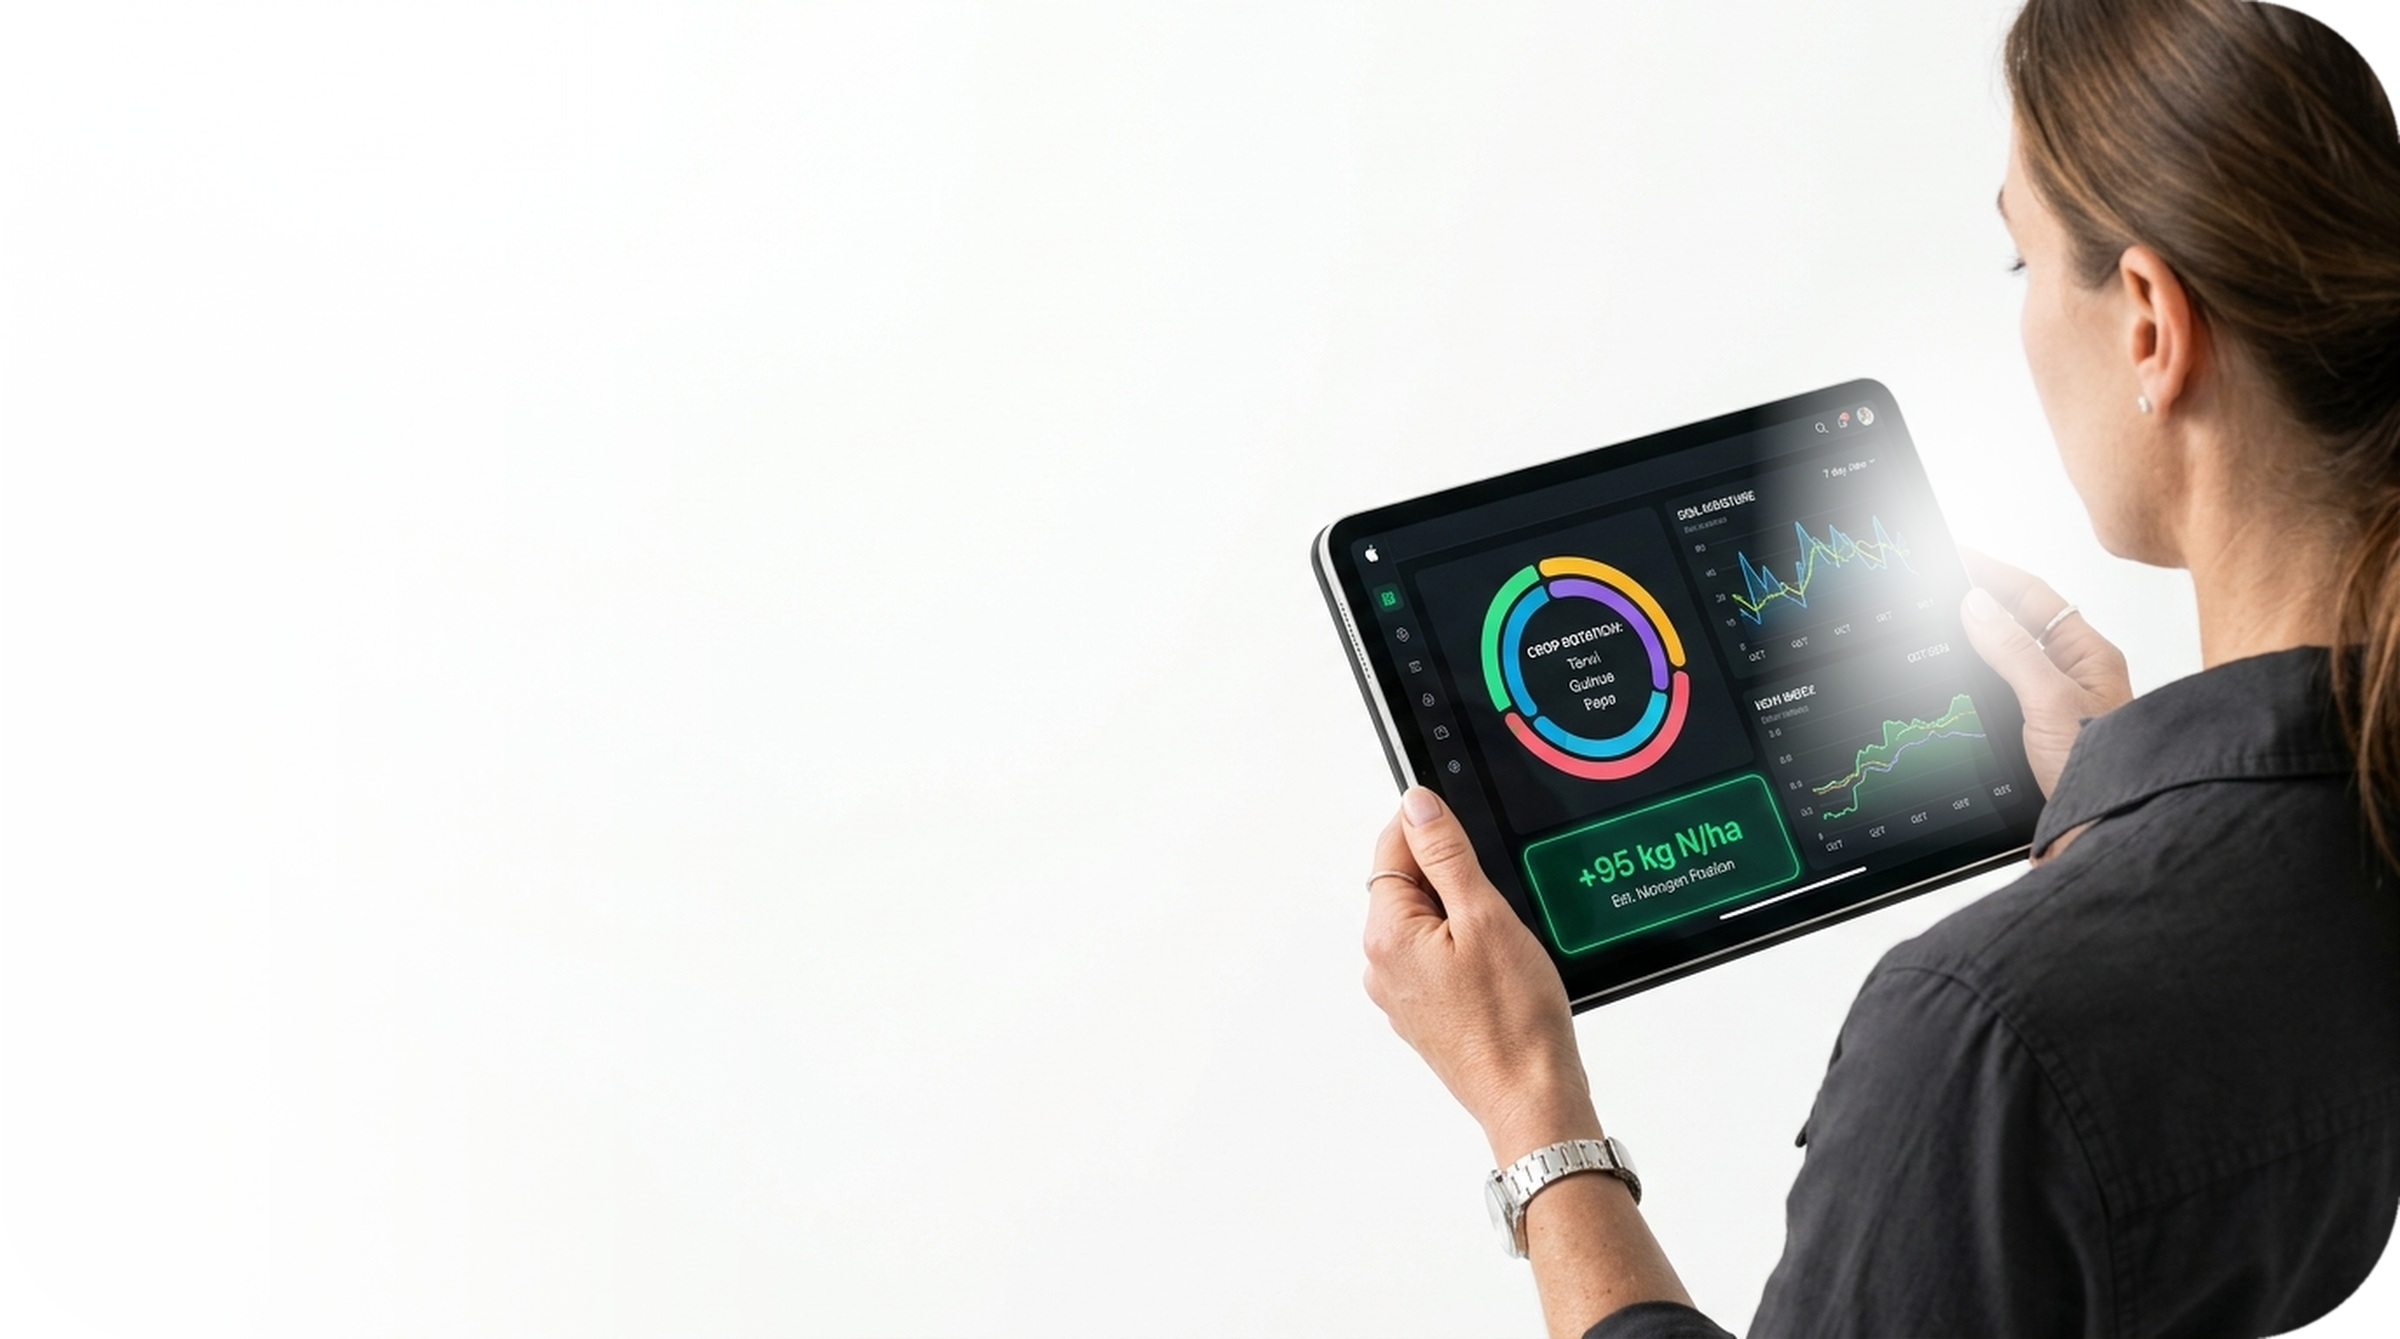
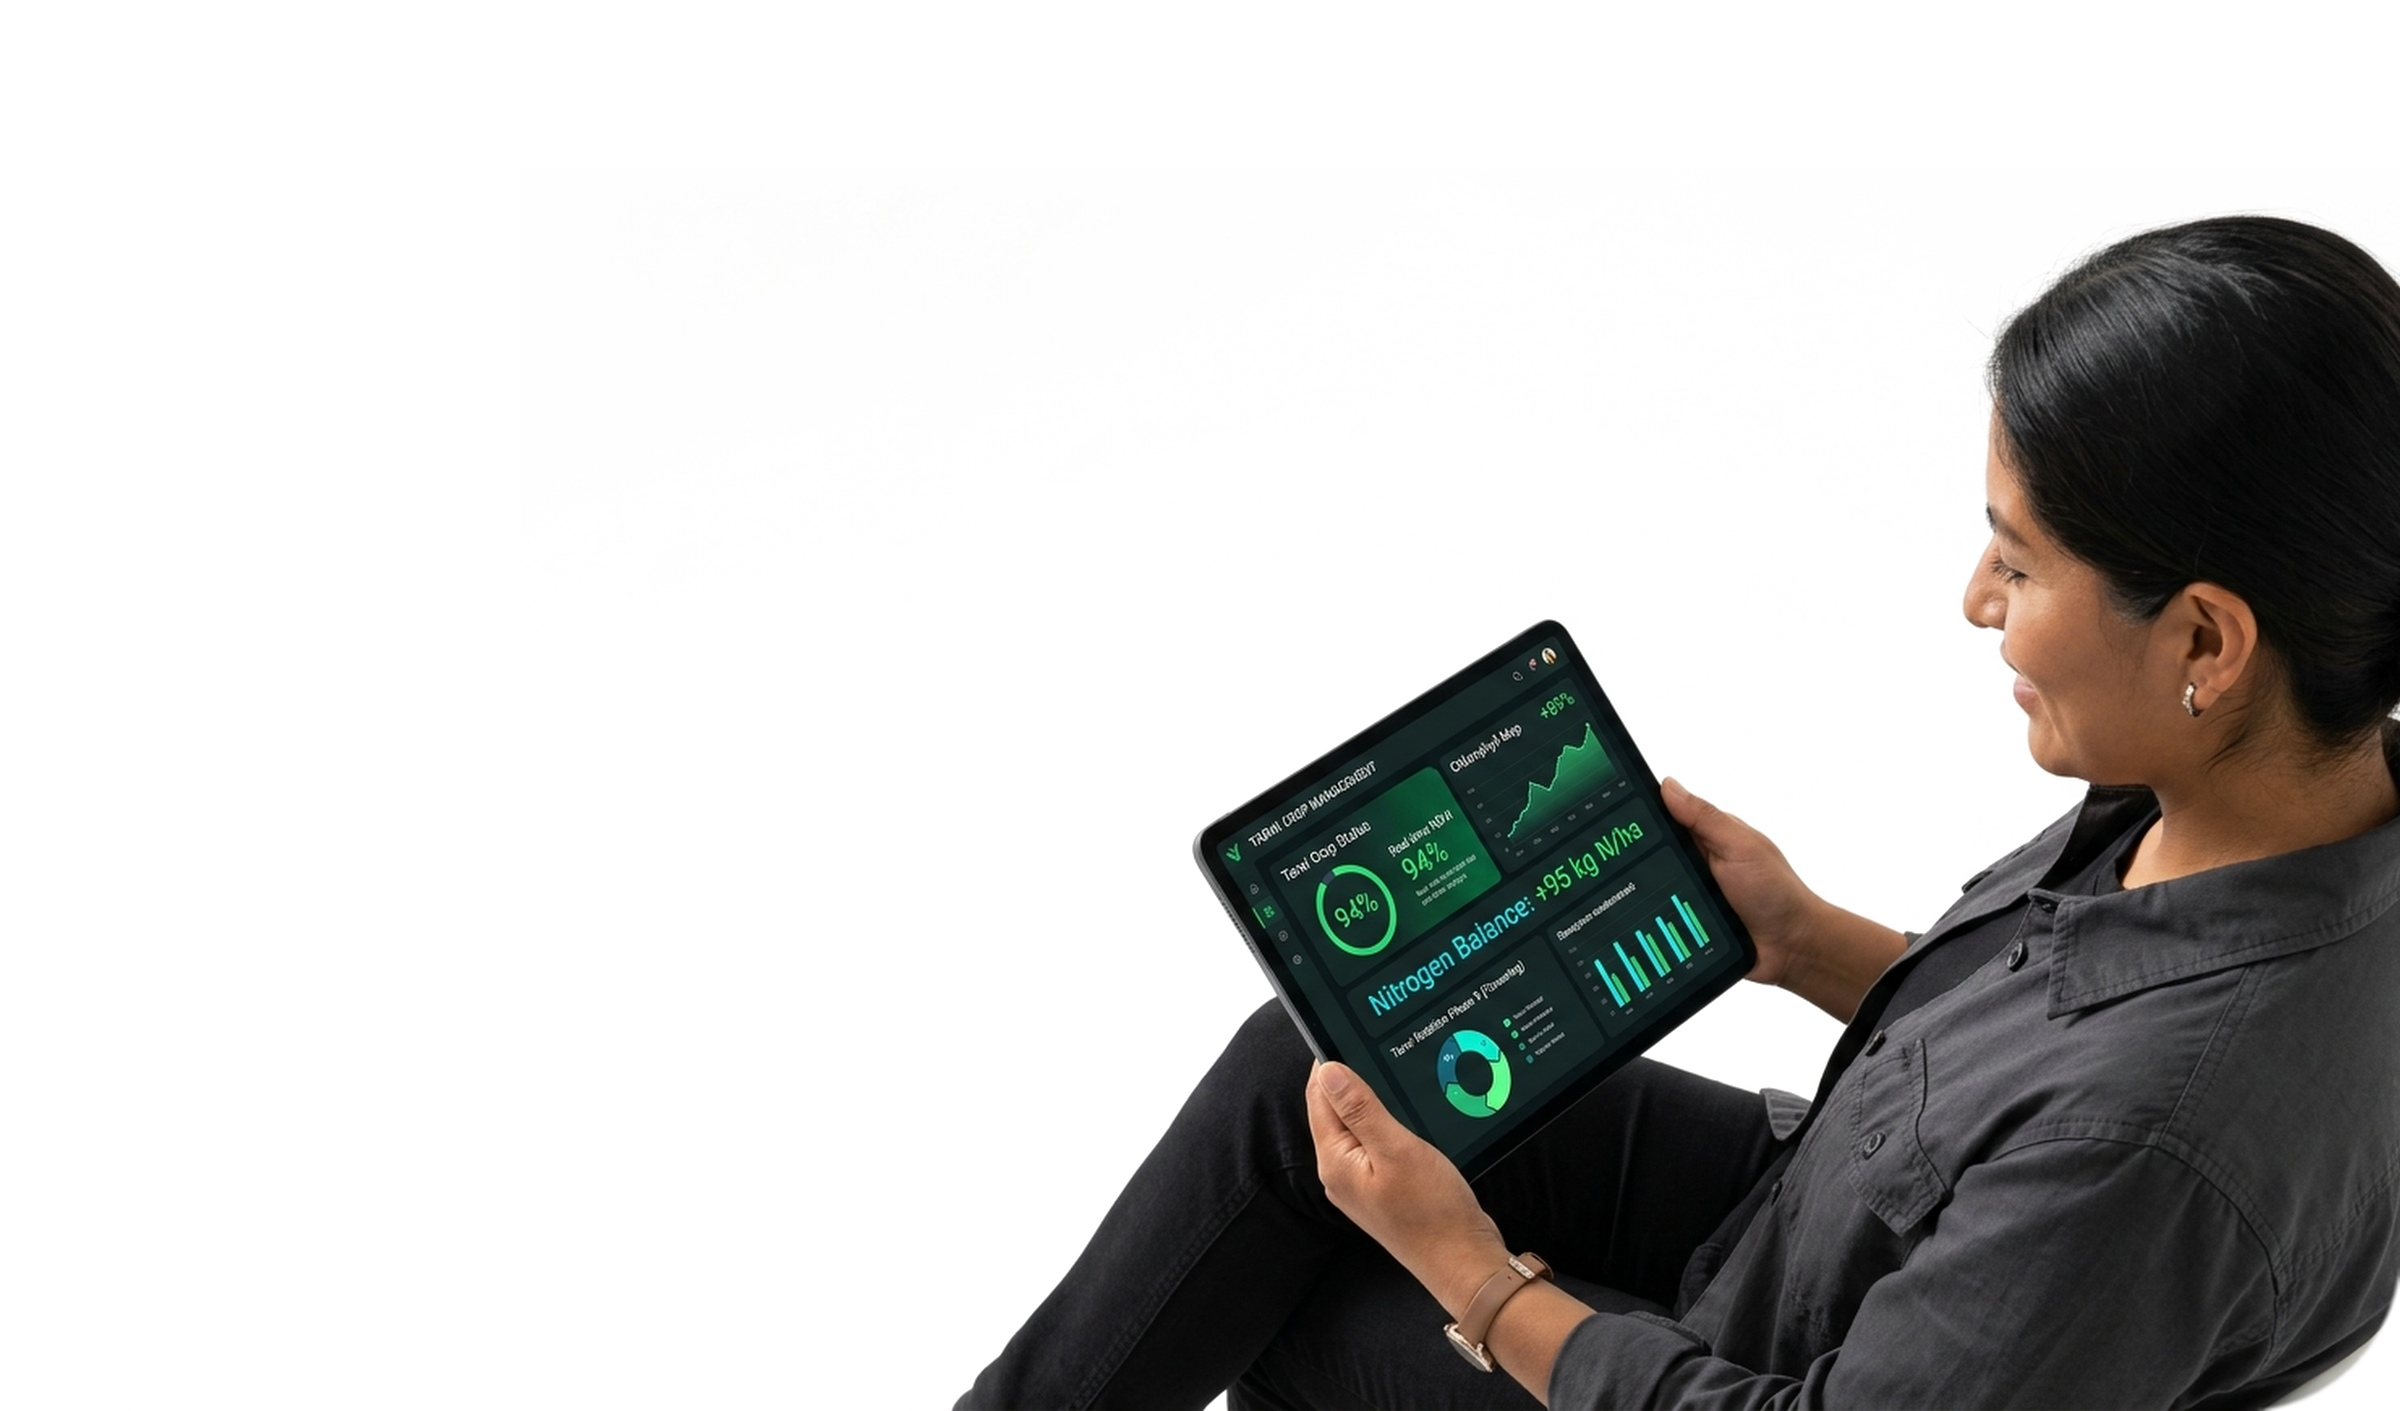
feat(quipu): refine second showcase with studio lifestyle agronomist photo and negative space tabs

diff --git a/app/page.tsx b/app/page.tsx
@@ -825,7 +825,7 @@ export default function SuperpowerTerraquipuLanding() {
             <div className="hidden lg:block lg:flex-1 pointer-events-none" />
 
             {/* Right Block: Vertical Tab Navigation (Sitting in pure white corridor between iPad and person) */}
-            <div className="w-full lg:w-auto flex flex-row lg:flex-col gap-3 lg:gap-5 text-xs font-sans overflow-x-auto lg:overflow-visible pb-2 lg:pb-0 shrink-0 self-center z-20 mr-0 lg:mr-4 xl:mr-8 -translate-y-16 lg:-translate-y-28">
+            <div className="w-full lg:w-auto flex flex-row lg:flex-col gap-3 lg:gap-5 text-xs font-sans overflow-x-auto lg:overflow-visible pb-2 lg:pb-0 shrink-0 self-center z-20 mr-0 lg:mr-24 xl:mr-32 -translate-y-12 lg:-translate-y-24">
               {ROTACION_TABS.map((tab, idx) => (
                 <button
                   key={idx}
